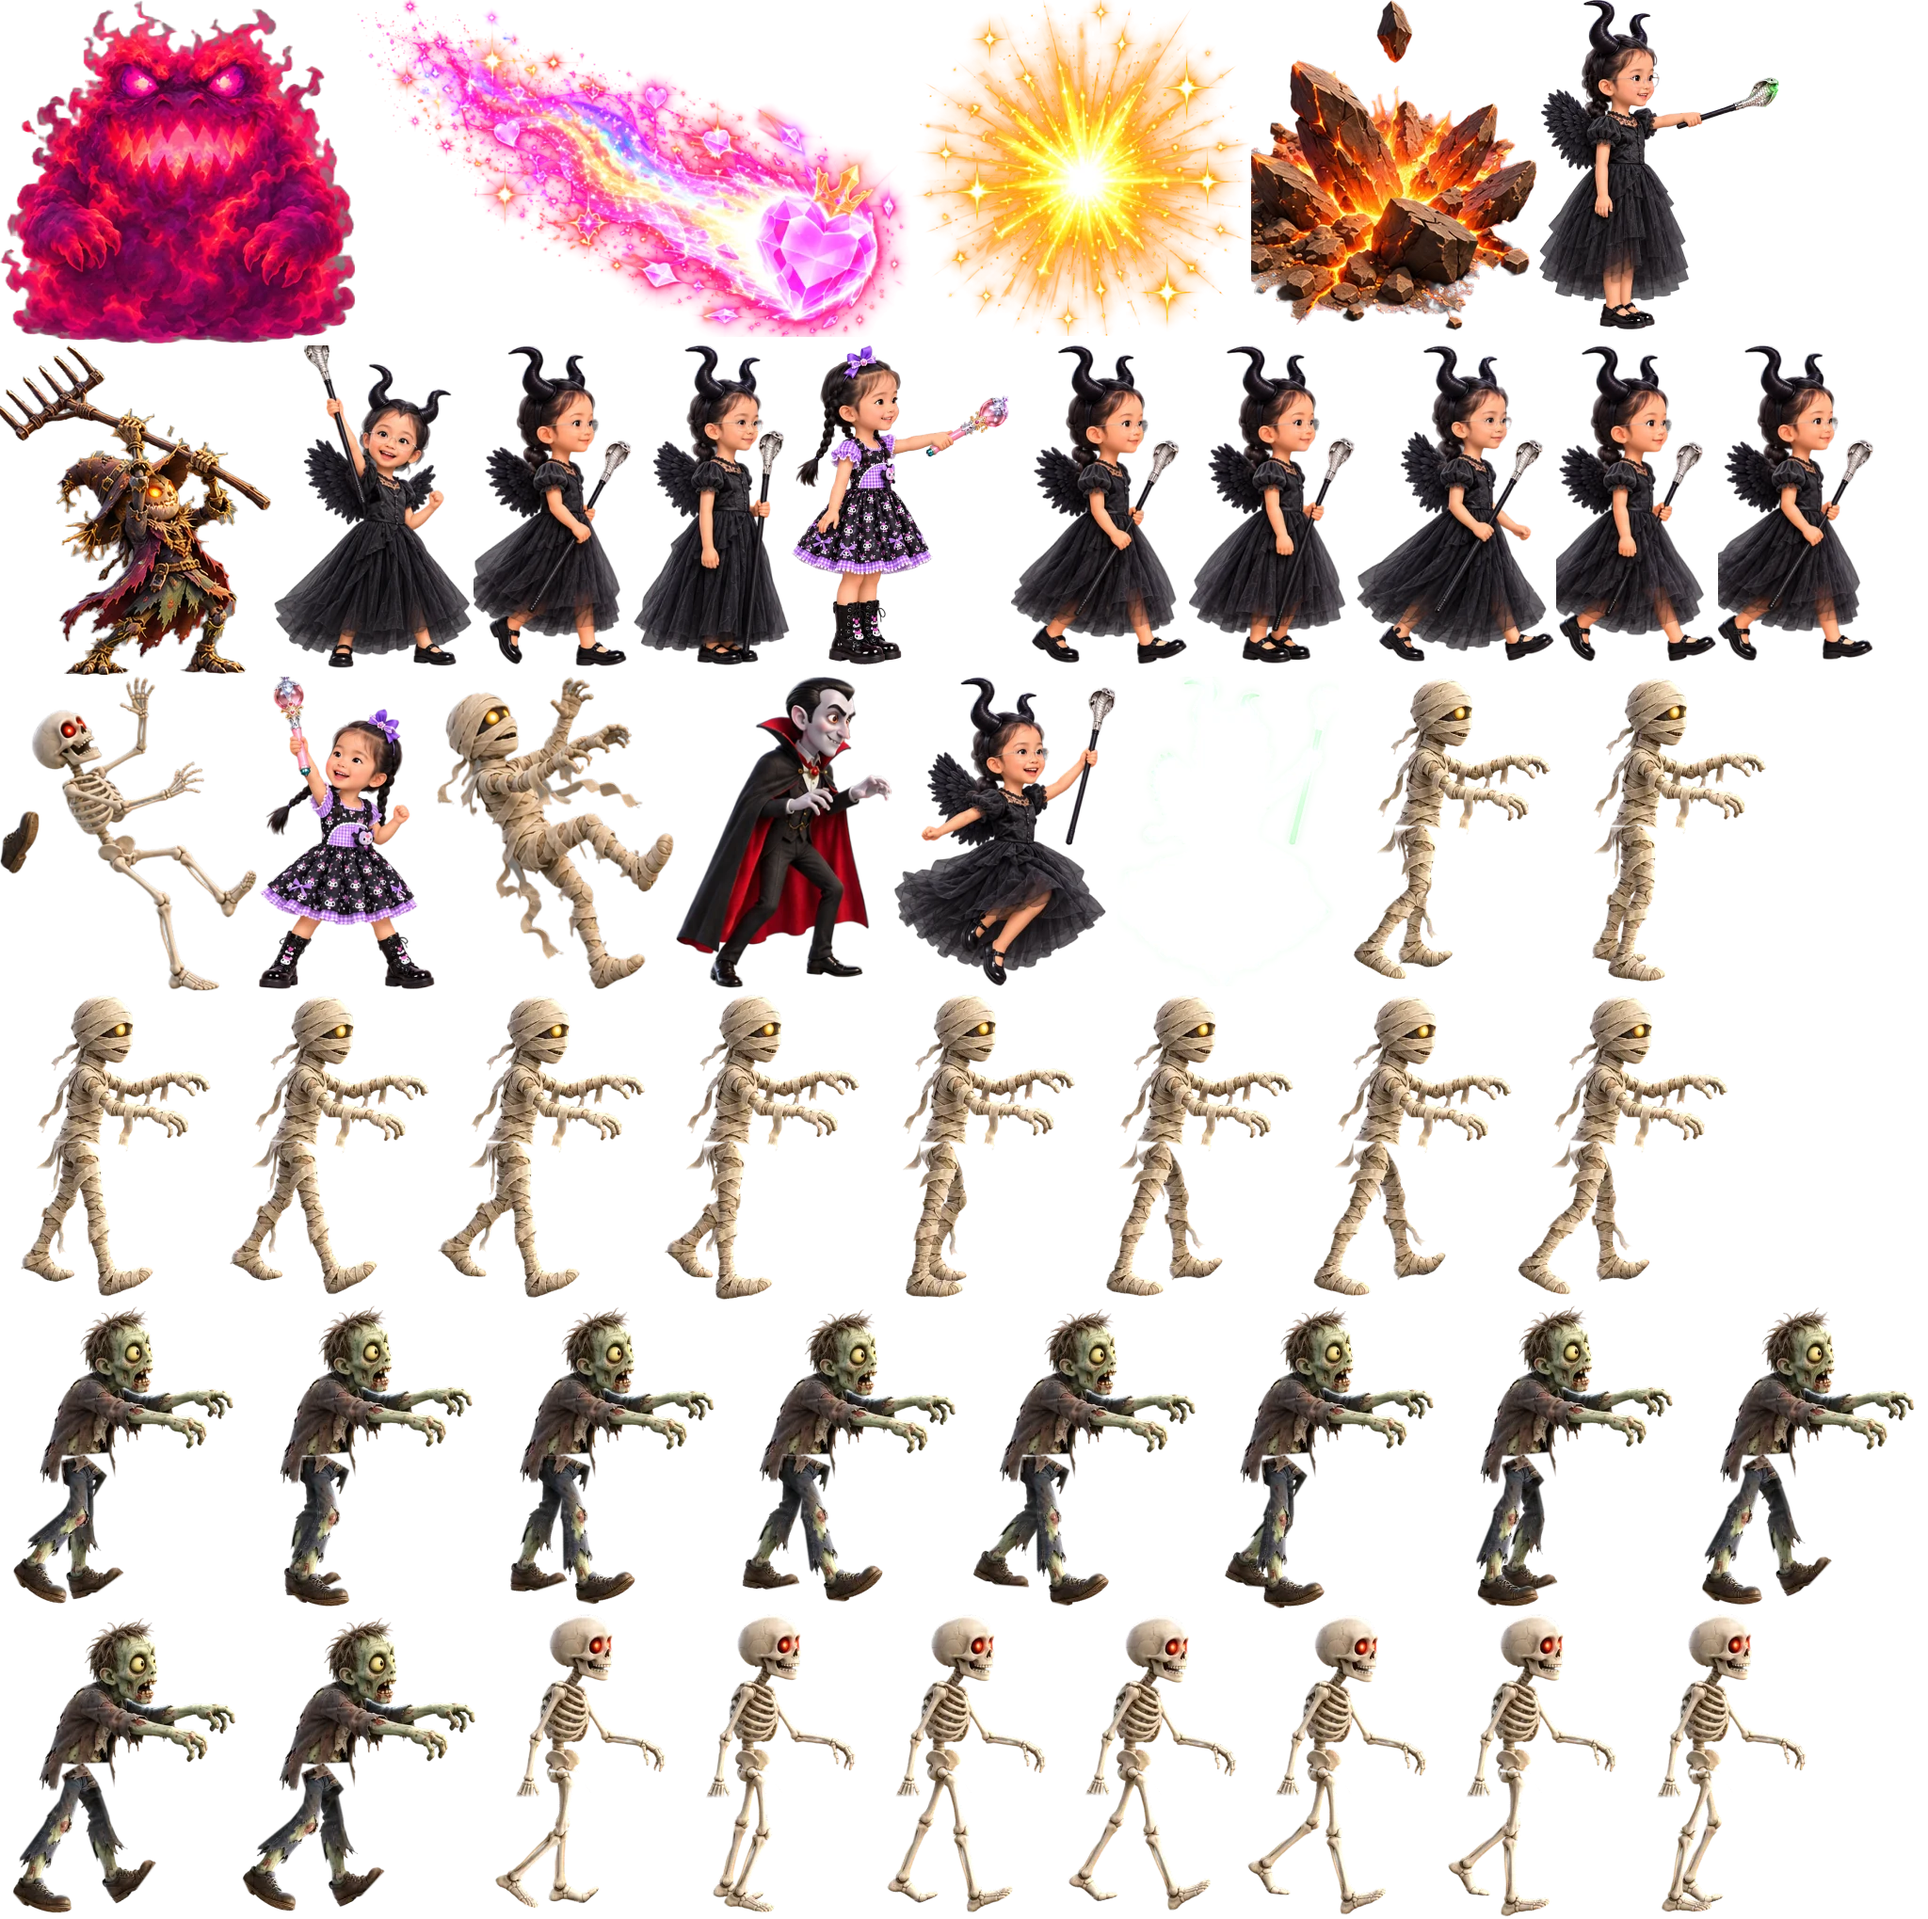
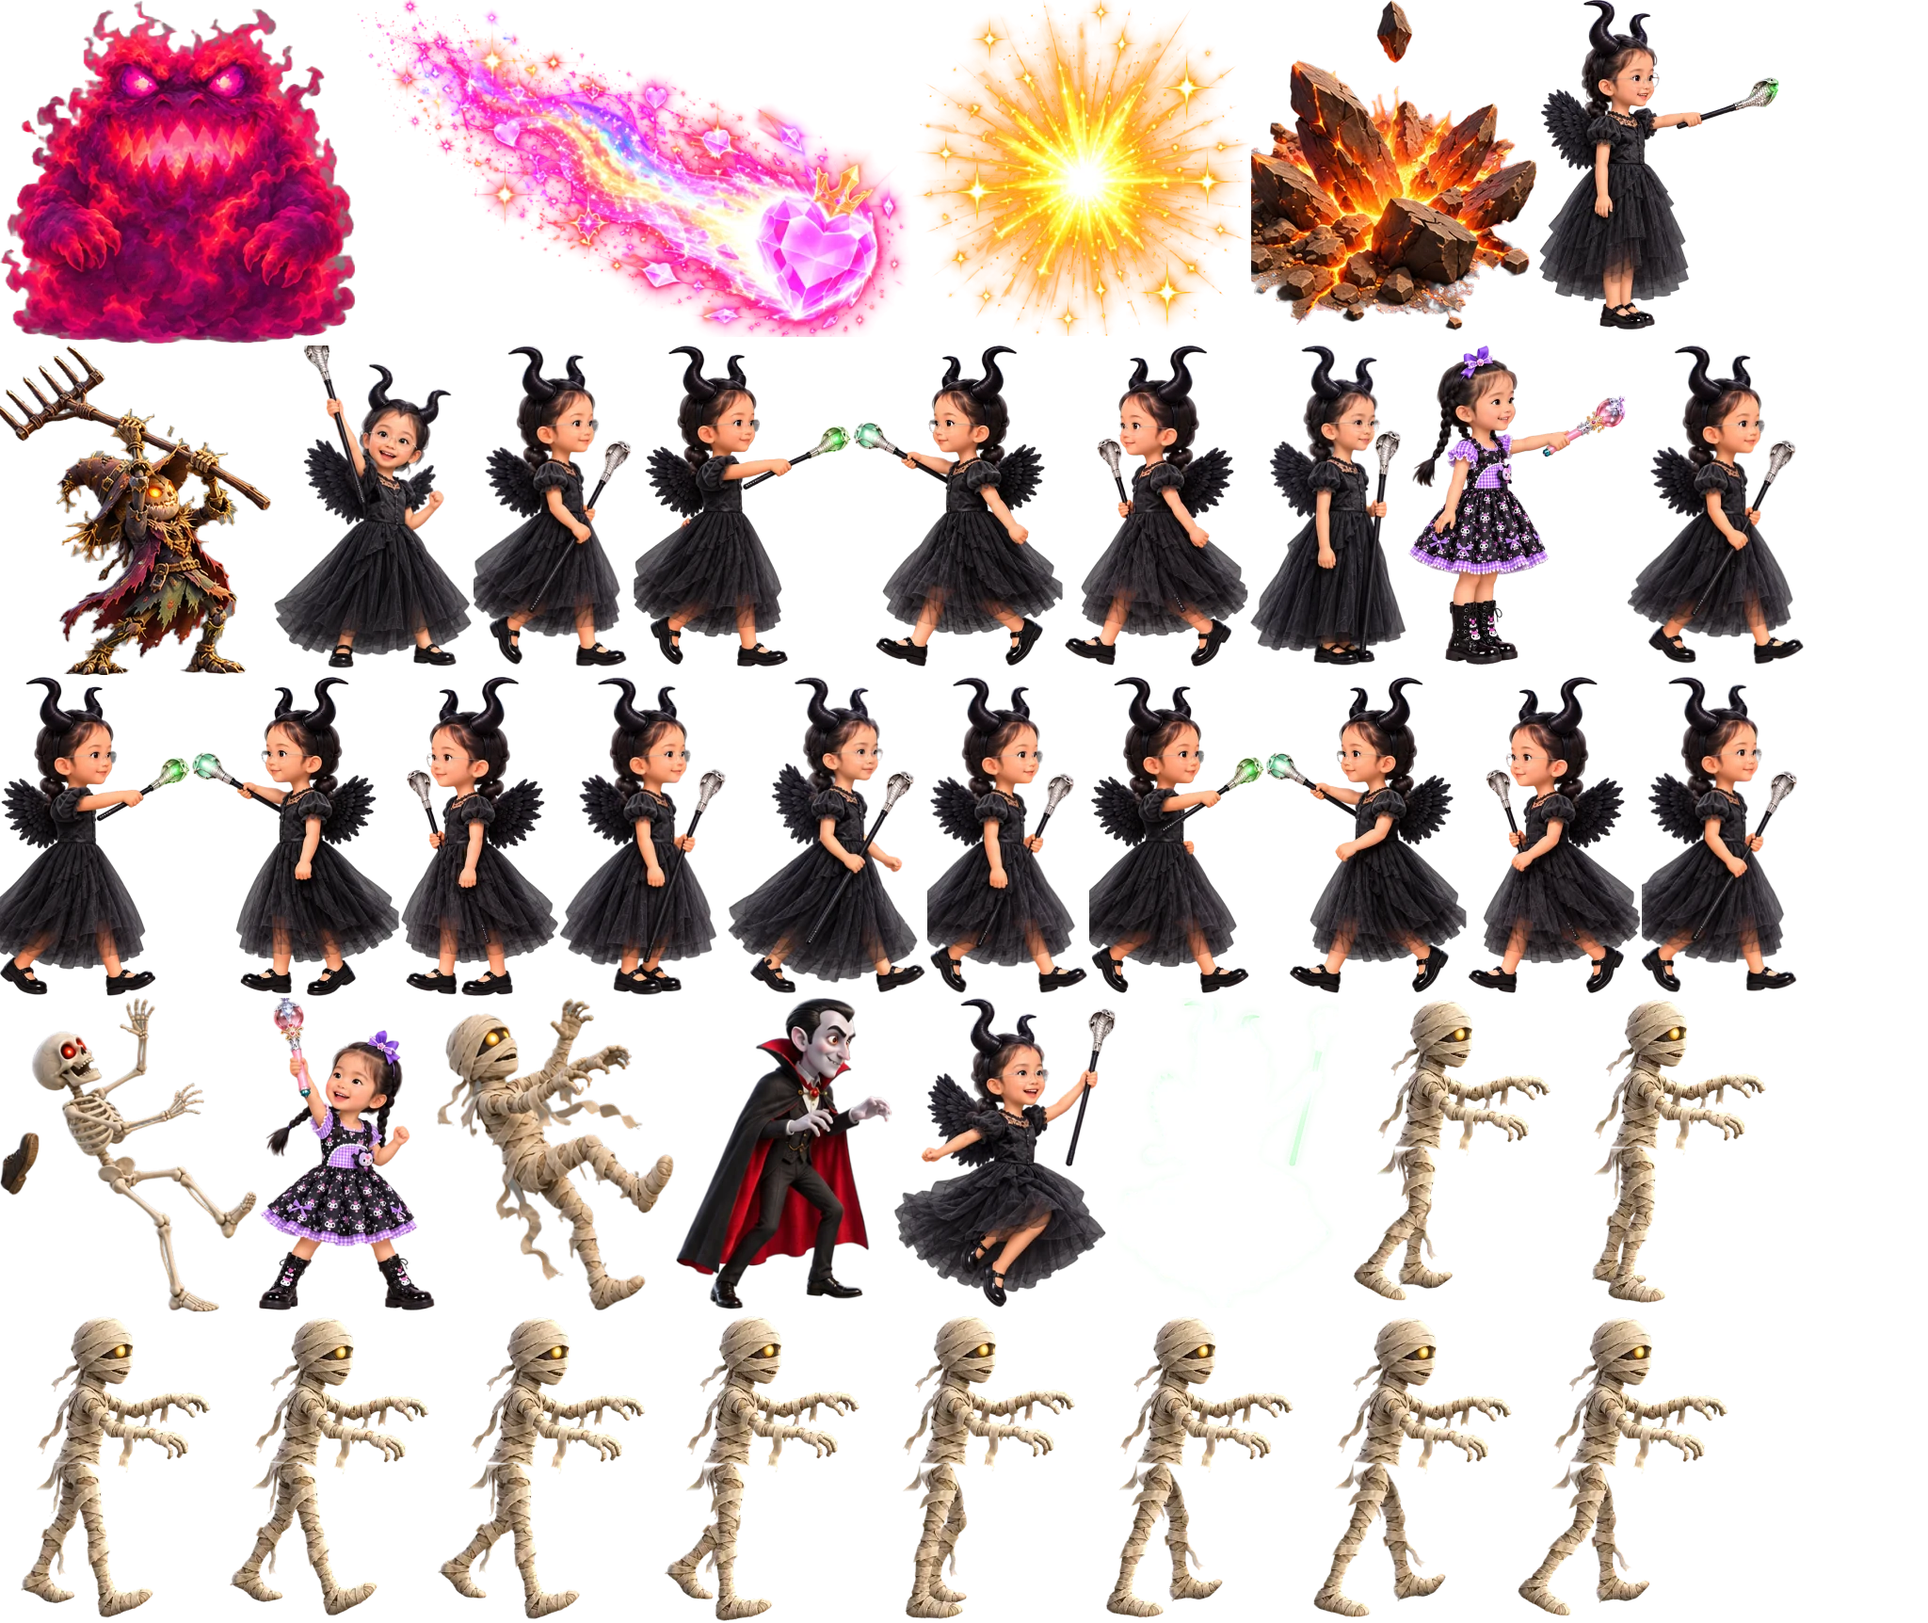
v3: Matcha cũng luôn cầm gậy tay phải ở mọi hướng, vừa đi vừa giơ gậy, cỡ nhân vật đều nhau giữa đi/đứng/bắn
Claude-Session: https://claude.ai/code/session_018CdmaGRbzjkocUF5TVUzxd

diff --git a/index.html b/index.html
@@ -269,7 +269,7 @@
   let META = null, ready = false;
   function loadImg(src) { return new Promise((res, rej) => { const i = new Image(); i.onload = () => res(i); i.onerror = rej; i.src = src; }); }
   // ---------------------------------------------------------------- version: the site build stamps BUILD_VER and writes version.json beside the page
-  const BUILD_VER = "261025.1803", isBuilt = !BUILD_VER.startsWith("__");
+  const BUILD_VER = "261025.1830", isBuilt = !BUILD_VER.startsWith("__");
   async function latestVer() {
     try { return (await (await fetch("version.json?x=" + Date.now(), { cache: "no-store" })).json()).v; } catch (e) { return null; }
   }
@@ -1254,7 +1254,7 @@
   // the bolt flies at BOLT_Z above the ground, so y here is ground-level (tip height - BOLT_Z)
   const WAND = { g: [[78, -32], [111, -40], [112, -38], [103, -42], [79, -60]], s: [[85, -51], [140, -49], [155, -50], [120, -60], [40, 0]] };
   // the walking-cast drawings (wand in her right hand, so facing left is its own picture, front and back never mirrored)
-  const WAND_WC = { g: { wc: [60, -64], wcL: [-68, -59], d0: [-19, -53], d4: [43, -75] } };
+  const WAND_WC = { g: { wc: [60, -64], wcL: [-68, -59], d0: [-19, -53], d4: [43, -75] }, s: { wc: [81, -72], wcL: [-77, -77], d0: [-31, -70], d4: [59, -111] } };
   function wandTip(hk, face, flip, fn) {
     const W2 = WAND_WC[hk];
     if (W2 && fn) {
